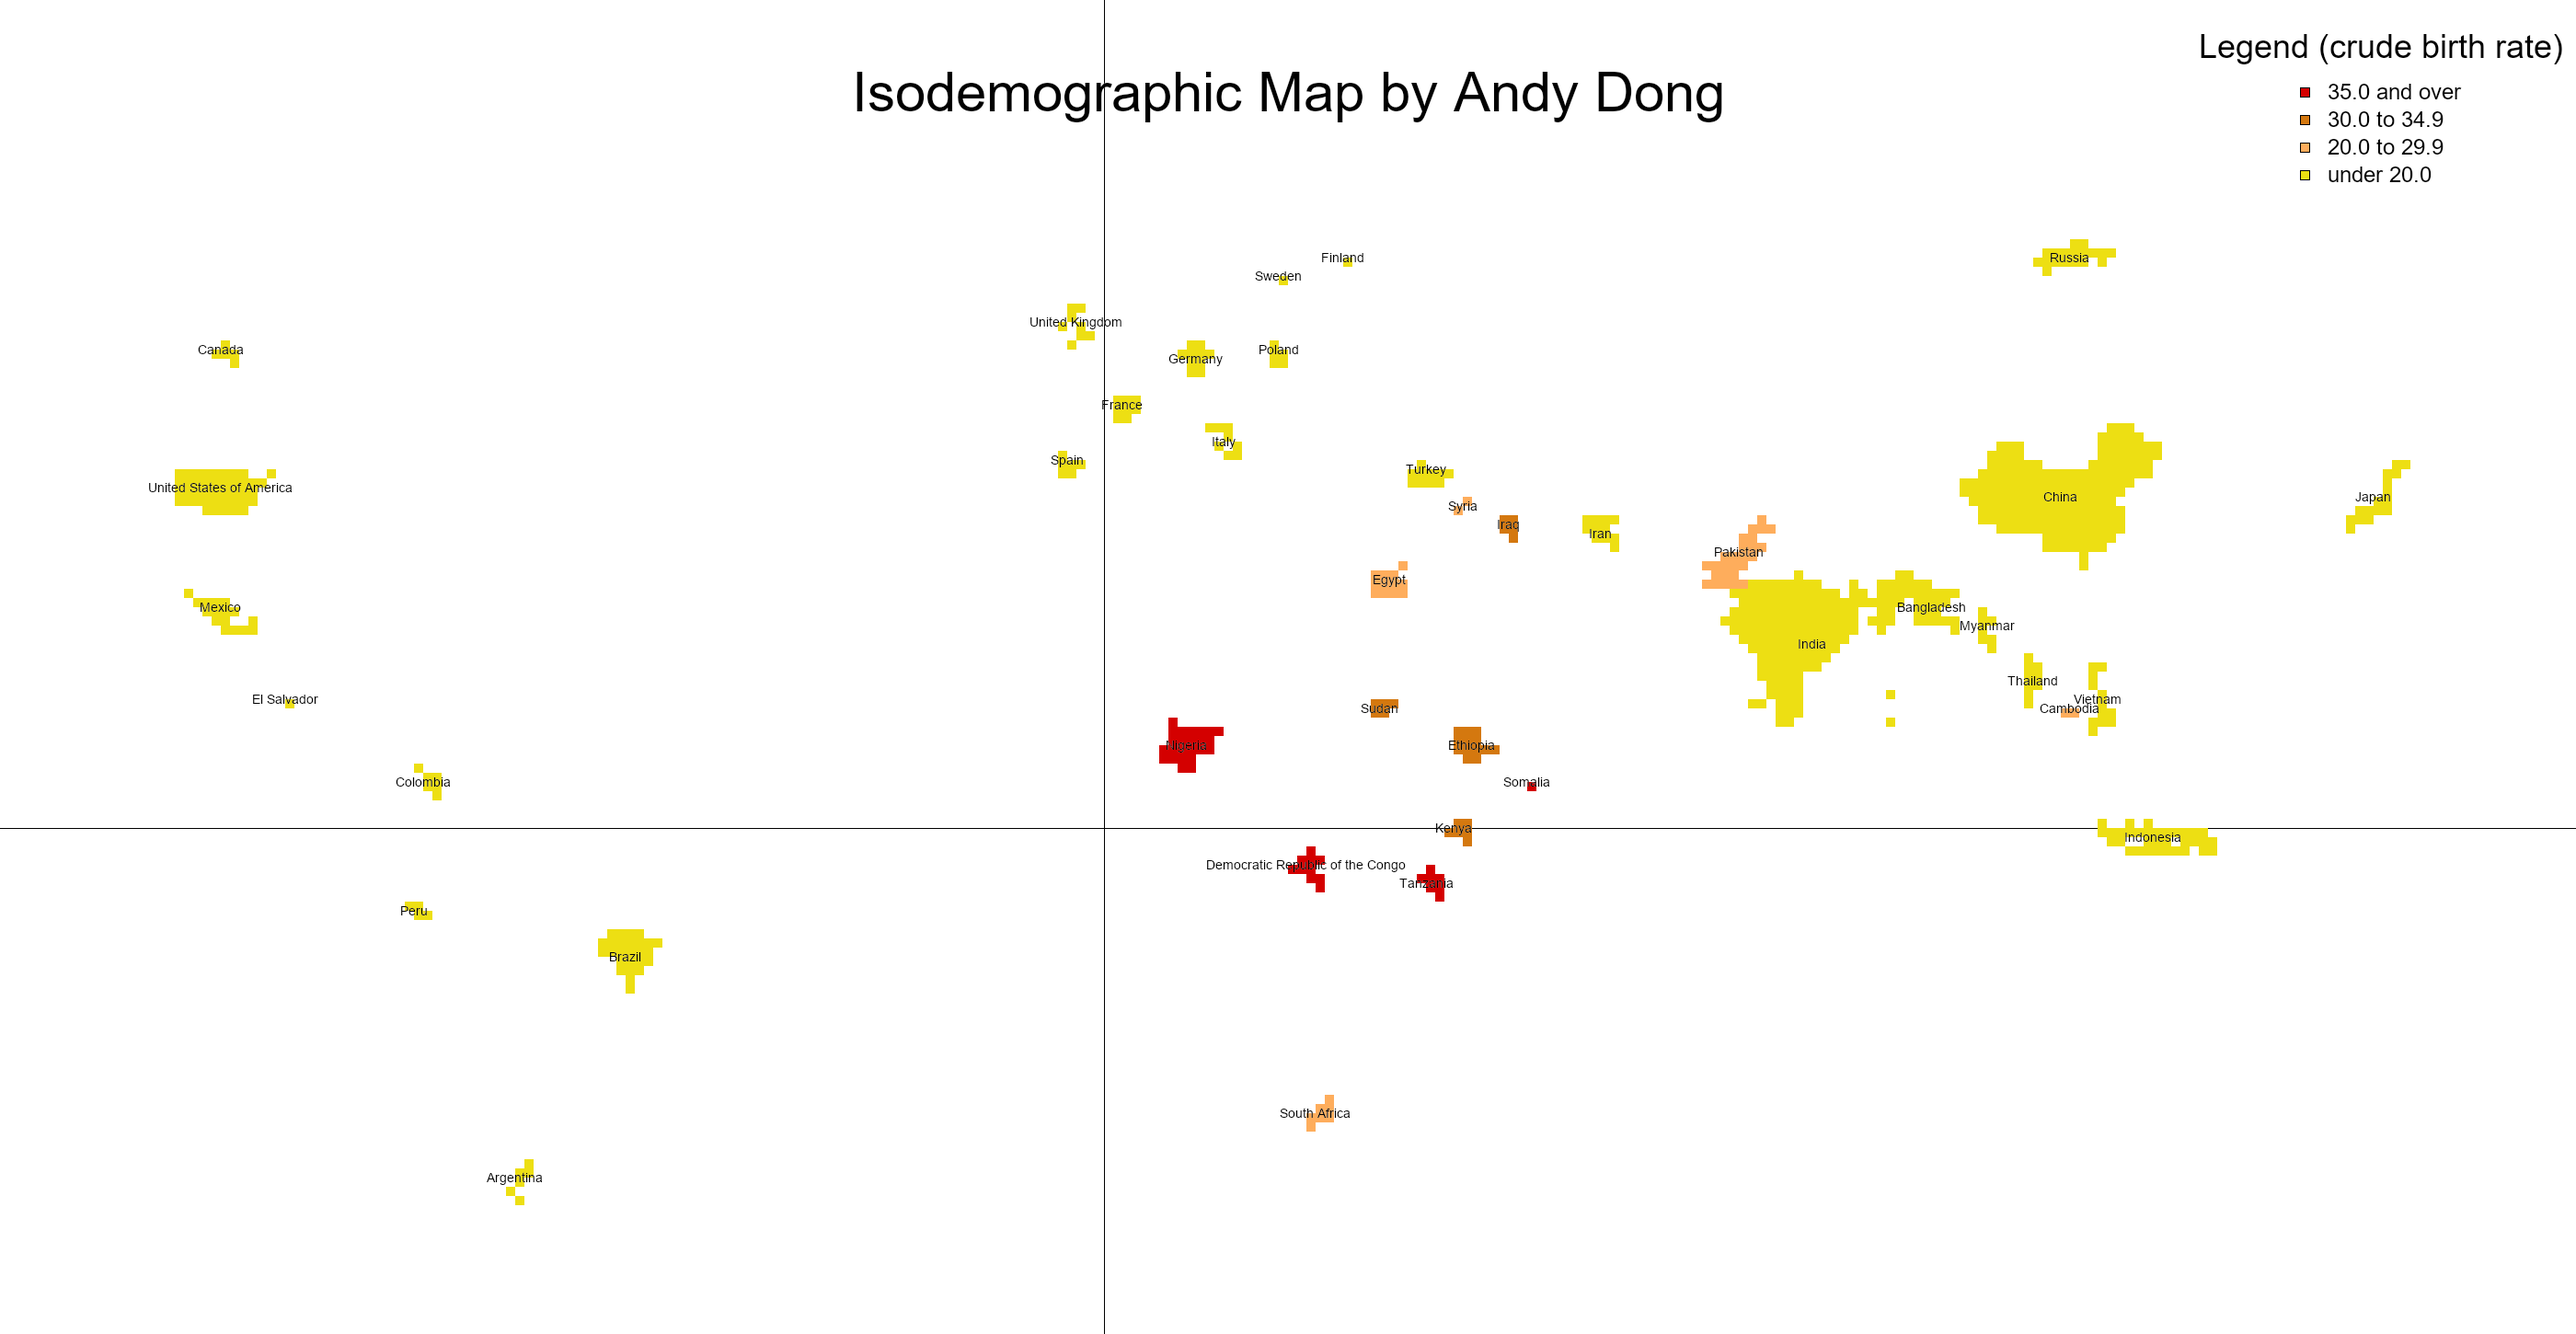
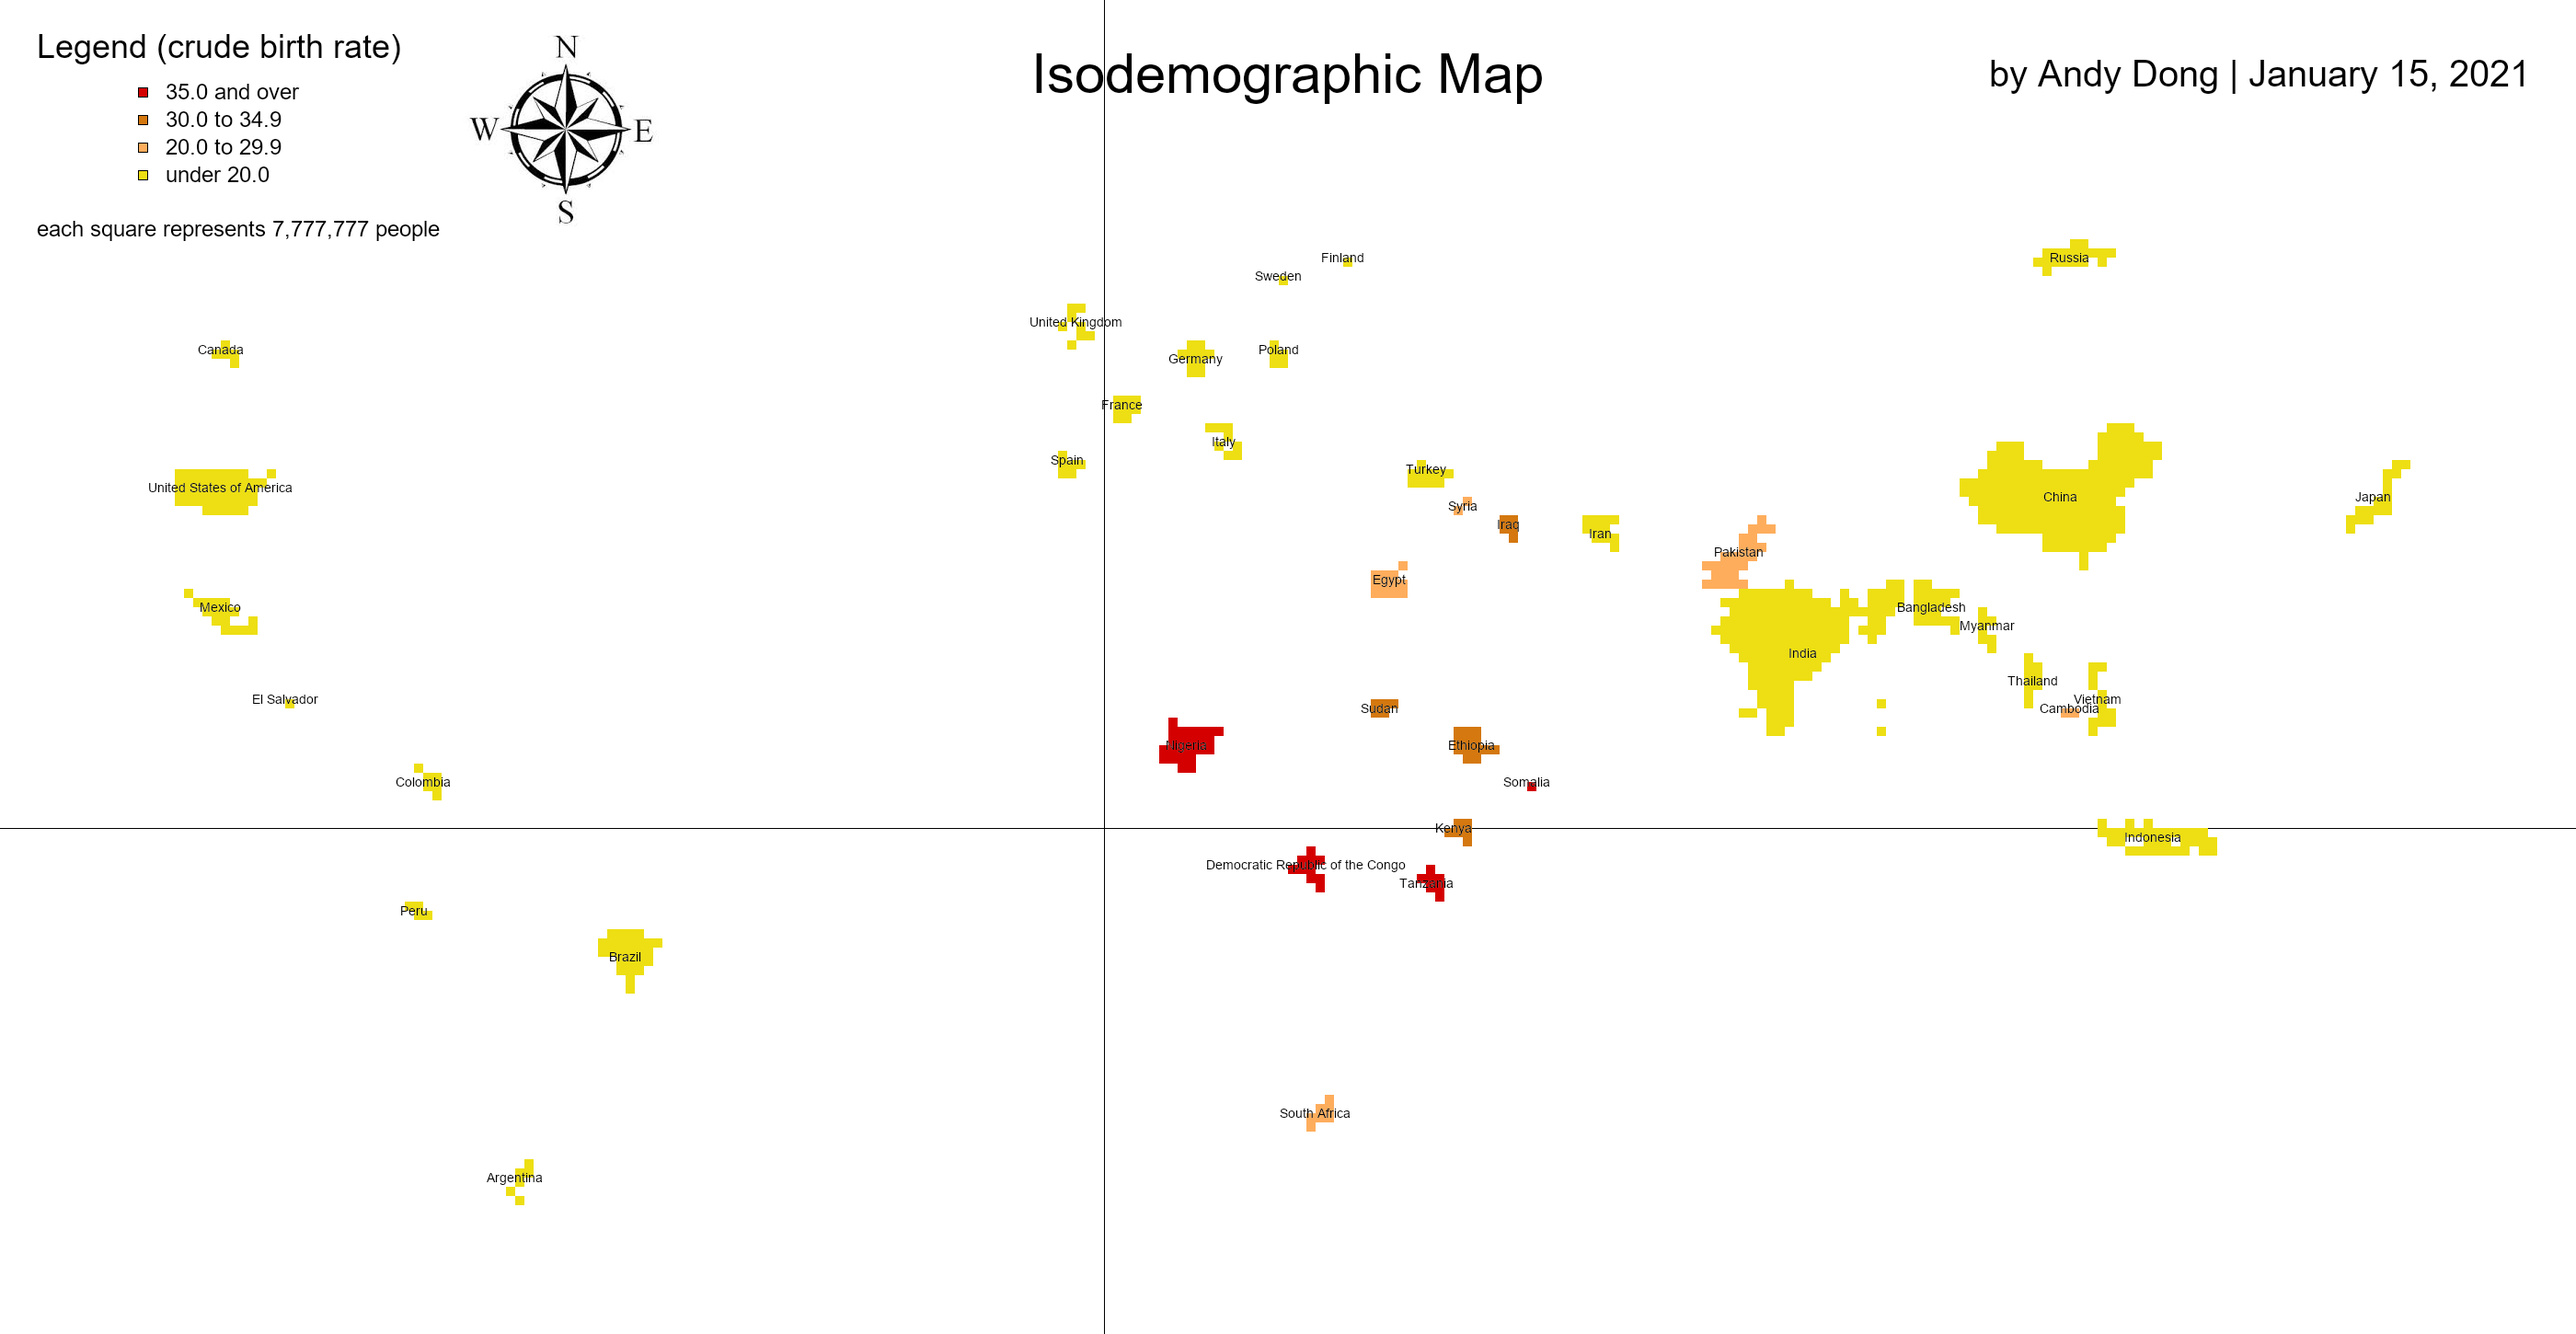
almost done

diff --git a/cgw4u-isodemographic-map/map_maker.py b/cgw4u-isodemographic-map/map_maker.py
@@ -33,6 +33,7 @@ LABELS = [
 ]
 
 LEGEND_SPACING = 30
+TITLES_Y = 80  # y-coordinates for (vertical) middle of title and subtitle
 
 
 def get_color(birth_rate):
@@ -160,22 +161,37 @@ for country, x, y in zip(countries, xs, ys):
     d.text((x, y), country, fill=BLACK, font=get_font(14), anchor='mm')
 
 # make title
-d.text((WIDTH * S // 2, 100), 'Isodemographic Map by Andy Dong',
+d.text((WIDTH * S // 2, TITLES_Y), 'Isodemographic Map',
     fill=BLACK,
     font=get_font(60),
-    anchor='mm'
+    anchor='mm',
 )
 
+# make subtitle
+d.text((WIDTH * S - 50, TITLES_Y), 'by Andy Dong | January 15, 2021',
+    fill=BLACK,
+    font=get_font(40),
+    anchor='rm',
+)
 
-d.text((2390, 30), 'Legend (crude birth rate)', fill=BLACK, font=get_font(36))
+SHIFT = 40
+
+d.text((SHIFT, 30), 'Legend (crude birth rate)', fill=BLACK, font=get_font(36))
 for i, (color, label) in enumerate(zip(COLORS, LABELS)):
     y = 100 + LEGEND_SPACING * i
     d.rectangle(
-        [(2500, y - S // 2), (2500 + S, y + S // 2)],
+        [(SHIFT + 110, y - S // 2), (SHIFT + 110 + S, y + S // 2)],
         fill=color,
         outline=BLACK,
     )
-    d.text((2530, y), label, fill=BLACK, font=get_font(24), anchor='lm')
+    d.text((SHIFT + 140, y), label, fill=BLACK, font=get_font(24), anchor='lm')
+d.text((SHIFT, 100 + LEGEND_SPACING * 4.5), 'each square represents 7,777,777 people',
+    fill=BLACK,
+    font=get_font(24),
+    # anchor='lm'
+)
+
+res.paste(Image.open('compass.jpg'), (500, 30))
 
 res.paste(txt, mask=txt)
 res.save(OUTPUT_FILENAME)

diff --git a/cgw4u-isodemographic-map/data_generator.py b/cgw4u-isodemographic-map/data_generator.py
@@ -165,22 +165,3 @@ with open('land_area_data/data.csv') as csv_file:
                 area = float(row[s])
         assert area != -1
         d[country].area = area
-exit()
-
-for country, c in d.items():
-    im = c.pixels
-    loaded = im.load()
-
-    im.resize(())
-    pixels = [[1 if loaded[x, y][2] > 0 else 0 for x in range(im.width)] for y in range(im.height)]
-    area = sum(sum(row) for row in pixels)
-    print(area)
-    # for i in range(0, len(pixels), 3):
-    #     for j in range(0, len(pixels[i]), 3):
-    #         print(pixels[i][j], end='')
-    #     print()
-    break
-    area = 0
-    im.resize()
-
-print(d)
